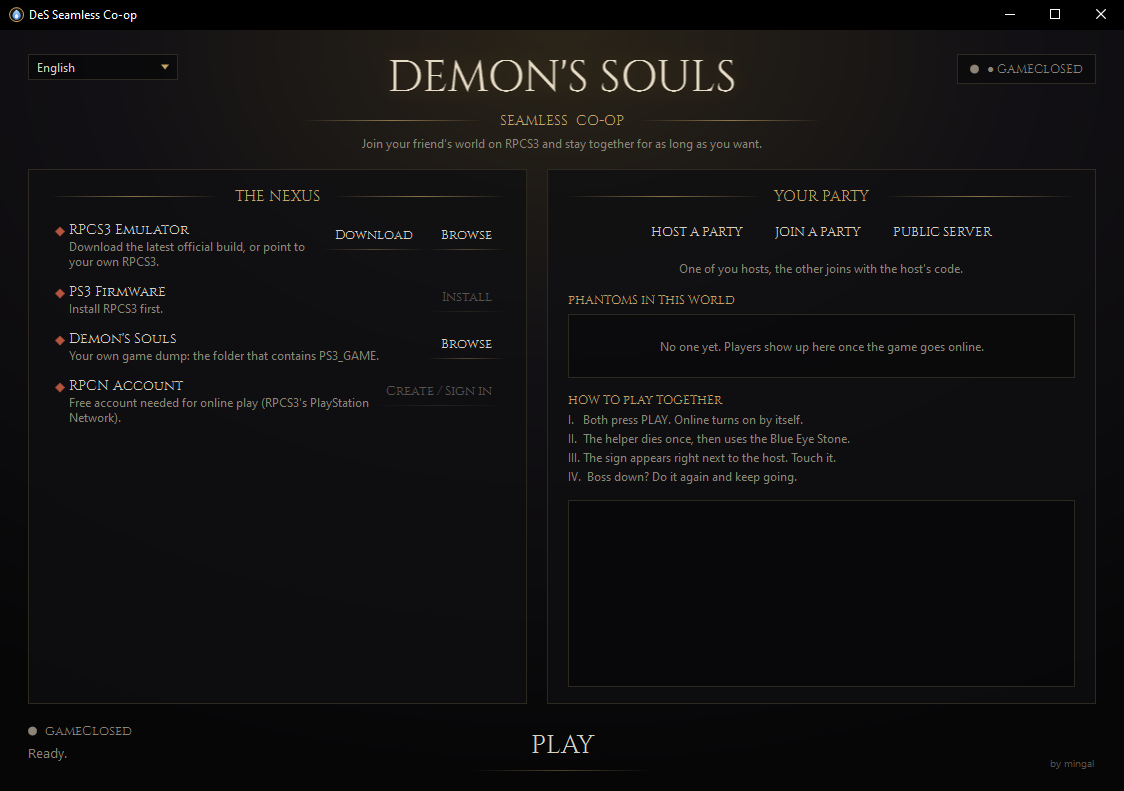
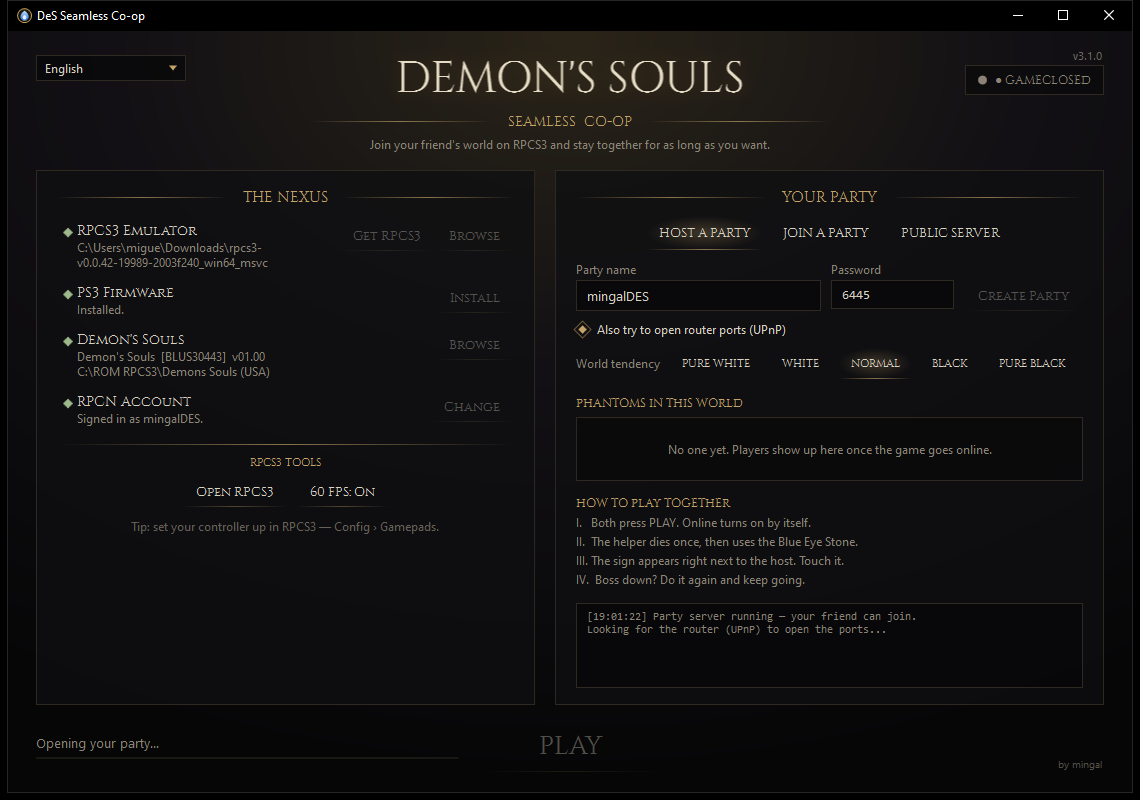
v3.1.0: final stable — refresh UI screenshot, add RPCS3 tools to README

diff --git a/README.md b/README.md
@@ -42,6 +42,7 @@ Demon's Souls' online servers were shut down in 2018. This app brings co-op back
 | 🛒 **Blacksmith carries the rarities** | Boldwin (in the Nexus) also sells the world-tendency-locked weapons, Colorless Demon's Souls and every Pure stone, so a co-op run never permanently misses them. |
 | ☠ **Cyanide Pill** | Every class starts with one (and Boldwin sells more): use it to die on the spot and turn into a soul-form ghost on demand, instead of farming a death to place a summon sign. |
 | ✨ **Quality-of-life tweaks** | Full-HP soul form, infinite Ephemeral Eyes, passive MP regen, half-price merchants, faster upgrade stones and more — applied to your own dump, originals backed up. |
+| 🎮 **One-click RPCS3 tools** | Open RPCS3 and toggle the community **60 FPS** patch straight from the launcher — no menu digging. |
 | 🎌 **Multi-language** | English, Português (BR) and Español. Detected on first run, switchable any time. |
 | 🖱 **Point-and-play setup** | Get [RPCS3](https://rpcs3.net) and point the app to it; it downloads the official PS3 firmware from Sony, patches the game and configures everything by itself. |
 
@@ -73,7 +74,7 @@ The game still ends the session when a boss or the host dies (that logic lives i
 
 ```powershell
 git clone --recursive https://github.com/himingal/des-seamless-coop
-powershell -File tools/build-release.ps1 -Version 2.0.0   # tests + single-file exe + installer in dist/
+powershell -File tools/build-release.ps1 -Version 3.1.0   # tests + single-file exe + installer in dist/
 ```
 
 .NET 10, WPF, a reimplemented server in a shared library, xUnit tests and an Inno Setup installer.
